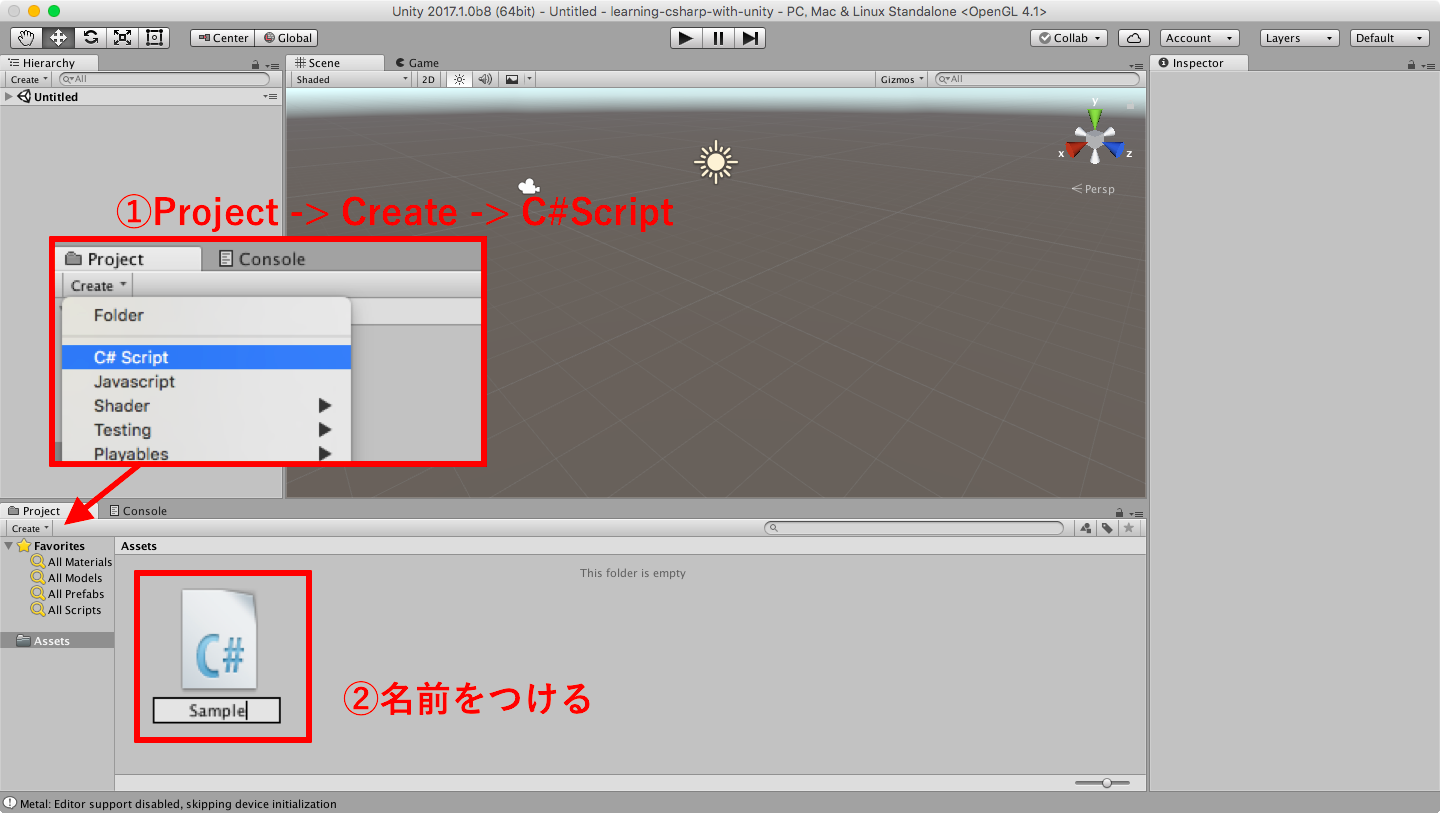
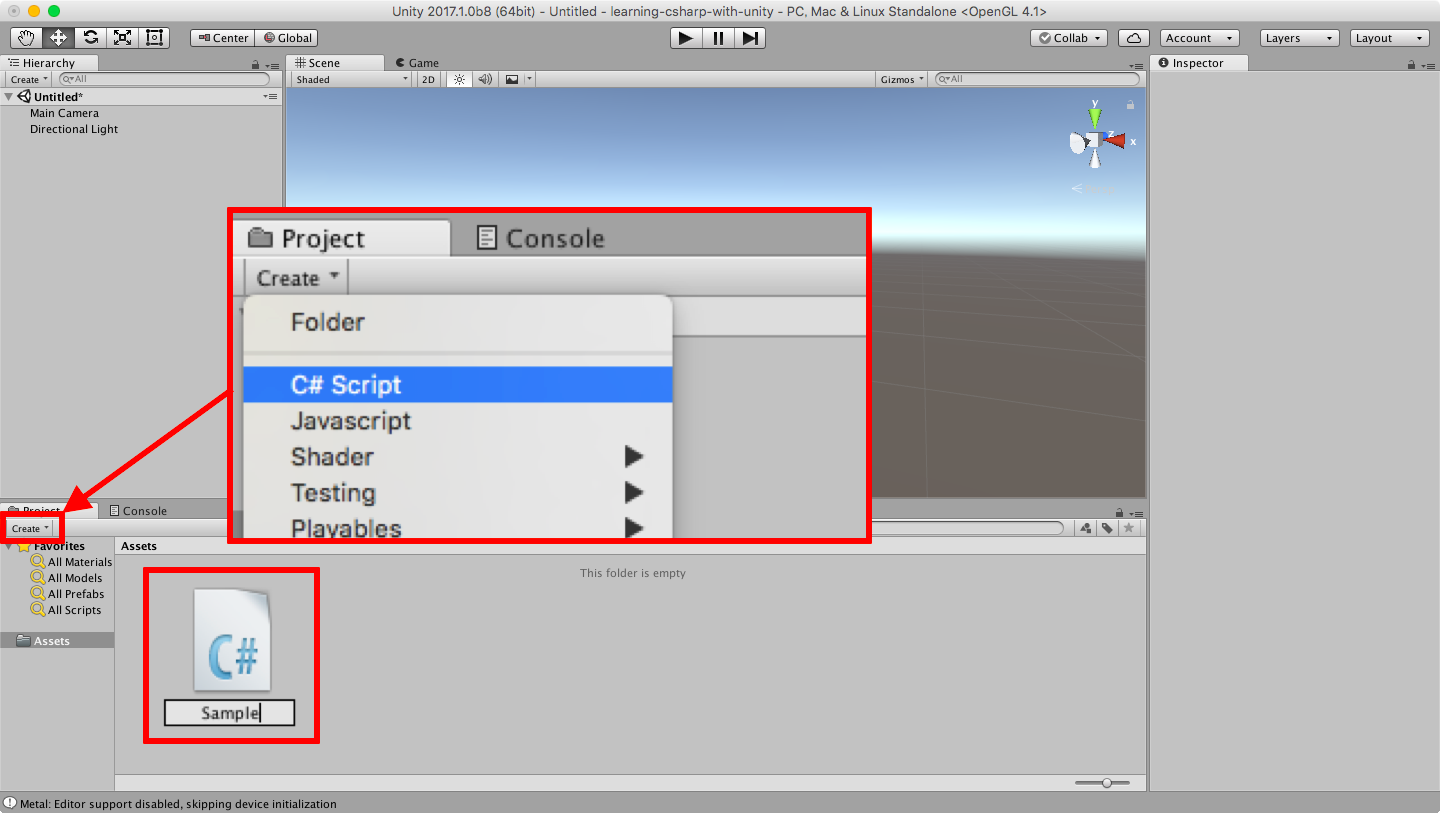
edit

diff --git a/PITCHME.md b/PITCHME.md
@@ -184,13 +184,9 @@ Unity興味ある
 
 ## 0. Unityの準備
 
-+++?image=gitpitch/img/unity-editor-layout.png&size=contain
-
-レイアウトを初期化しておく
-
 +++
 
-![Logo](gitpitch/img/unity-editor-layout.png)
+![](gitpitch/img/unity-editor-layout.png)
 
 レイアウトを初期化しておく
 
@@ -198,7 +194,22 @@ Unity興味ある
 
 ## 1. <span>C#</span>スクリプトの作成方法
 
-+++?image=gitpitch/img/unity-create-script.png&size=contain
++++
+
+![](gitpitch/img/unity-create-script.png)
+
+Project -> Create -> C# Script
+
+`Sample` のように名前をつける。
+
++++
+
+## ダブルクリックで開く
+
+![](gitpitch/img/open-script-editer.png)
+
+> MonoDevelopというエディタが開きます。
+
 
 ---
 
